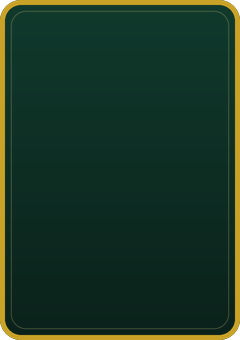
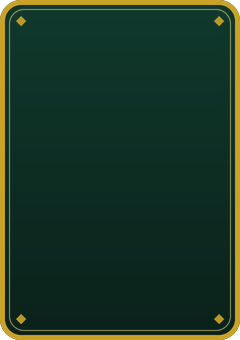
Let the card frame own its edge, and tint it for a sacrifice
Resolves #45.

The card node drew a square 2px BorderColor underneath a frame whose bezel is
rounded, so every card carried a gold notch in each corner. The border could
not simply go: it was also how a pending All In sacrifice was signalled.

So the edge becomes the art's job whenever art.frame is Some, and the pending
state becomes a tint through ImageNode::color. The no-art fallback keeps the
old gold/neon border, since there it is the only edge there is. The tint is
deliberately light — multiplying green felt by a saturated red crushes the card
to near black.

The bezel itself is redrawn as a double rule with a diamond in each corner,
over a body that darkens towards its edge so the Stack number sits on flat
felt. A single heavy rule read as a slab at 120x170.

cargo check, cargo test (86 passed) green.

Claude-Session: https://claude.ai/code/session_019SDQrzjBYWJnjXPd6ZhgSd

Changed region(s): [[0.875, 0.0294, 0.9625, 0.9706], [0.0292, 0.0294, 0.1167, 0.9706]]

diff --git a/tools/gen_placeholders.py b/tools/gen_placeholders.py
@@ -70,29 +70,55 @@ def _vertical_gradient(w, h, top, bottom):
 
 
 def card_frame(path):
-    """Opaque card body with a gold bezel; corners transparent for the 9-slice.
+    """The card face: a double-rule gold bezel with deco corners.
 
-    The interior is left flat so name / Stack / Tell render legibly on top.
+    The node draws no border of its own once this art is present (see
+    `src/combat/ui.rs`), so everything the card's edge does has to happen here.
+    A single heavy rule read as a slab at 120x170, so it is two rules with air
+    between them, and the corners carry a small diamond to break the sameness.
     """
     body = _vertical_gradient(CARD_W, CARD_H, FELT, FELT_DEEP).convert("RGBA")
     body.putalpha(_rounded_mask(CARD_W, CARD_H, RADIUS))
 
-    # Outer gold stroke, then a hairline bezel inset from it.
+    # Darken the body towards its edge so the Stack number sits on flat felt.
+    inner = Image.new("RGBA", (CARD_W * SS, CARD_H * SS), (0, 0, 0, 0))
+    vd = ImageDraw.Draw(inner)
+    for i in range(18):
+        t = i / 17
+        vd.rounded_rectangle(
+            (i * SS, i * SS, (CARD_W - 1 - i) * SS, (CARD_H - 1 - i) * SS),
+            radius=max((RADIUS - i), 2) * SS,
+            outline=FELT_DEEP + (int(26 * (1 - t)),),
+            width=2 * SS,
+        )
+    body.alpha_composite(inner.resize((CARD_W, CARD_H), Image.LANCZOS))
+
     stroke = Image.new("RGBA", (CARD_W * SS, CARD_H * SS), (0, 0, 0, 0))
     d = ImageDraw.Draw(stroke)
+
+    # Outer rule, then a hairline set in from it: a classic playing-card edge.
     d.rounded_rectangle(
         (0, 0, CARD_W * SS - 1, CARD_H * SS - 1),
-        radius=RADIUS * SS,
-        outline=GOLD + (255,),
-        width=BORDER * SS,
+        radius=RADIUS * SS, outline=GOLD + (255,), width=BORDER * SS,
     )
-    inset = 11 * SS
+    gap = 9 * SS
     d.rounded_rectangle(
-        (inset, inset, CARD_W * SS - 1 - inset, CARD_H * SS - 1 - inset),
-        radius=(RADIUS - 6) * SS,
-        outline=GOLD_LIT + (110,),
-        width=max(SS // 2, 1),
+        (gap, gap, CARD_W * SS - 1 - gap, CARD_H * SS - 1 - gap),
+        radius=(RADIUS - 6) * SS, outline=GOLD_LIT + (150,), width=max(SS, 1),
     )
+
+    # A diamond tucked into each corner of the inner rule.
+    m = 21 * SS
+    r = 5 * SS
+    for cx, cy in (
+        (m, m), (CARD_W * SS - m, m),
+        (m, CARD_H * SS - m), (CARD_W * SS - m, CARD_H * SS - m),
+    ):
+        d.polygon(
+            [(cx, cy - r), (cx + r, cy), (cx, cy + r), (cx - r, cy)],
+            fill=GOLD + (235,),
+        )
+
     body.alpha_composite(stroke.resize((CARD_W, CARD_H), Image.LANCZOS))
     body.save(path)
 

diff --git a/src/combat/ui.rs b/src/combat/ui.rs
@@ -17,6 +17,9 @@ const DIM: Color = Color::srgb(0.55, 0.53, 0.48);
 const GOLD: Color = Color::srgb(0.85, 0.70, 0.35);
 const STREAK_BLUE: Color = Color::srgb(0.50, 0.72, 0.84);
 const CARD_FACE: Color = Color::srgb(0.04, 0.08, 0.06);
+/// Multiplied over the card frame to mark a pending All In sacrifice. Kept
+/// light, because tinting green felt with a saturated red crushes it to black.
+const SACRIFICE_TINT: Color = Color::srgb(1.0, 0.52, 0.56);
 
 /// Art that exists on disk. Anything `None` renders as text.
 #[derive(Resource, Default)]
@@ -144,10 +147,26 @@ pub fn redraw(
                         ..default()
                     },
                     BackgroundColor(CARD_FACE),
-                    BorderColor::all(if sacrifice_pending { NEON } else { GOLD }),
+                    // The frame art draws its own rounded bezel, so a square
+                    // border on the same node leaves a gold notch at each
+                    // corner. With art present the edge is the art's job and
+                    // the pending state is a tint; without it, the border is
+                    // the only edge there is.
+                    BorderColor::all(match (&art.frame, sacrifice_pending) {
+                        (Some(_), _) => Color::NONE,
+                        (None, true) => NEON,
+                        (None, false) => GOLD,
+                    }),
                 ));
                 if let Some(frame) = &art.frame {
-                    node.insert(ImageNode::new(frame.clone()));
+                    node.insert(ImageNode {
+                        color: if sacrifice_pending {
+                            SACRIFICE_TINT
+                        } else {
+                            Color::WHITE
+                        },
+                        ..ImageNode::new(frame.clone())
+                    });
                 }
                 node.with_children(|c| {
                     text(c, format!("[{}]", i + 1), 16.0, DIM);

diff --git a/assets/README.md b/assets/README.md
@@ -33,9 +33,16 @@ undistorted. Any other aspect ratio will skew the corners.
 
 - **Safe area: 16px inset** in authored pixels. The node carries 8px of padding,
   leaving a 104×154 content box for name, Stack, and Tell icon.
-- The node already draws its own `BackgroundColor(CARD_FACE)` **and a 2px gold
-  border**, both underneath the frame image. A drawn bezel will read as a double
-  border unless that `BorderColor` is dropped when `art.frame` is `Some`.
+- **The frame owns the card's edge.** When `art.frame` is `Some` the node sets
+  `BorderColor` to `Color::NONE`, because a square 2px border against the art's
+  rounded bezel left a gold notch in every corner. Without art the border is the
+  only edge there is, so it keeps its old gold/neon behaviour.
+- A pending All In sacrifice is shown by **tinting the frame** through
+  `ImageNode::color`, not by recolouring a border. The tint is kept light
+  (`SACRIFICE_TINT`): multiplying green felt by a saturated red crushes it to
+  black.
+- The bezel is a double rule with a diamond in each corner. A single heavy rule
+  read as a slab at 120×170.
 
 ## Tell icons
 
